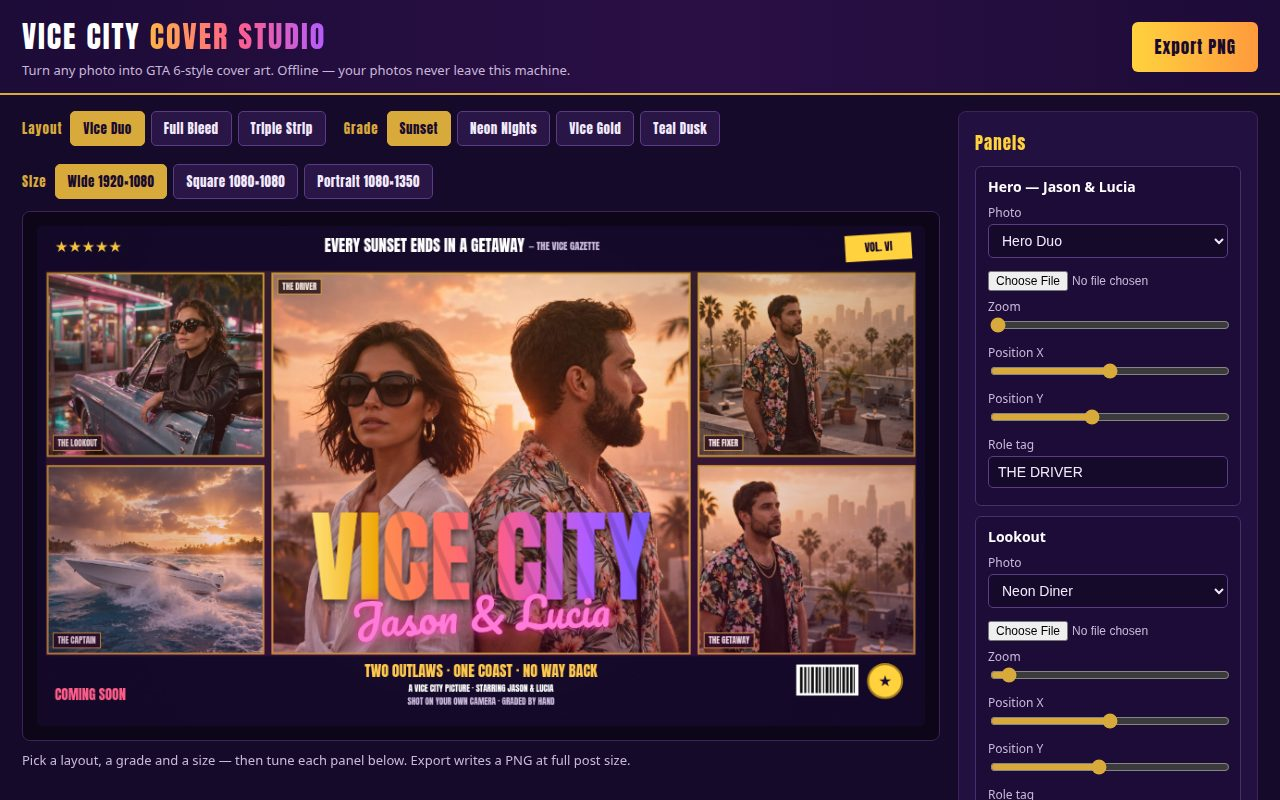
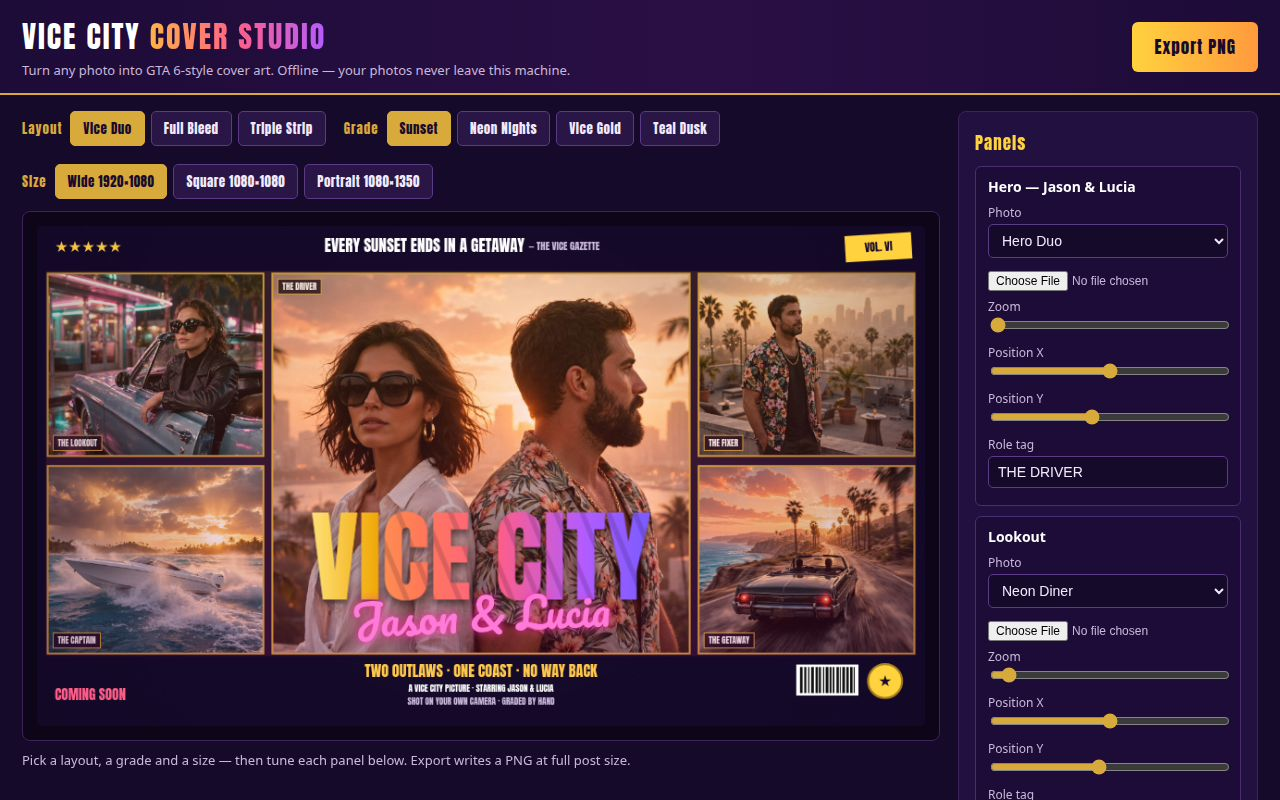
v4d: square hero uses blur-fill so both faces show whole (was cover-fit, Lucia cut at the left edge)

diff --git a/app/cover.js b/app/cover.js
@@ -8,12 +8,14 @@ const SAMPLES = {
   neon: 'samples/neon-woman.jpg',
   roof: 'samples/rooftop-man.jpg',
   boat: 'samples/speedboat.jpg',
+  getaway: 'samples/getaway-car.jpg',
 };
 const SAMPLE_LABELS = {
   hero: 'Hero Duo',
   neon: 'Neon Diner',
   roof: 'Rooftop',
   boat: 'Speedboat',
+  getaway: 'Coastal Getaway',
 };
 
 const PANEL_DEFS = [
@@ -21,7 +23,7 @@ const PANEL_DEFS = [
   { id: 'lookout', name: 'Lookout', tag: 'THE LOOKOUT', src: SAMPLES.neon, zoom: 1.05, fx: 0.5, fy: 0.45 },
   { id: 'fixer', name: 'Fixer', tag: 'THE FIXER', src: SAMPLES.roof, zoom: 1.0, fx: 0.5, fy: 0.35 },
   { id: 'captain', name: 'Captain', tag: 'THE CAPTAIN', src: SAMPLES.boat, zoom: 1.0, fx: 0.5, fy: 0.5 },
-  { id: 'getaway', name: 'Getaway', tag: 'THE GETAWAY', src: SAMPLES.roof, zoom: 1.35, fx: 0.62, fy: 0.22 },
+  { id: 'getaway', name: 'Getaway', tag: 'THE GETAWAY', src: SAMPLES.getaway, zoom: 1.05, fx: 0.5, fy: 0.5 },
 ];
 
 const EXPORT_SIZES = { wide: [1920, 1080], square: [1080, 1080], portrait: [1080, 1350] };
@@ -117,9 +119,9 @@ function drawPhotoCover(ctx, img, rect, zoom, fx, fy) {
 }
 
 // A tall hero panel cannot cover-fit a wide duo photo without slicing
-// both faces off at the edges (portrait is 0.49 aspect vs the photo's
-// 1.5). Fill it with a darkened blurred copy instead, then show the
-// whole photo sharp on top — a poster treatment, not a gap.
+// both faces off at the edges (portrait 0.49 and square 0.62 aspect vs
+// the photo's 1.5). Fill it with a darkened blurred copy instead, then
+// show the whole photo sharp on top — a poster treatment, not a gap.
 function drawPhotoBlurFill(ctx, img, rect) {
   const iw = img.naturalWidth;
   const ih = img.naturalHeight;
@@ -147,7 +149,7 @@ function drawPanel(ctx, panel, rect, W, H, tagOnTop) {
   ctx.rect(rect.x, rect.y, rect.w, rect.h);
   ctx.clip();
   if (panel.img) {
-    if (panel.id === 'hero' && rect.w / rect.h < 0.55) {
+    if (panel.id === 'hero' && rect.w / rect.h < 0.7) {
       drawPhotoBlurFill(ctx, panel.img, rect);
     } else {
       drawPhotoCover(ctx, panel.img, rect, panel.zoom, panel.fx, panel.fy);
